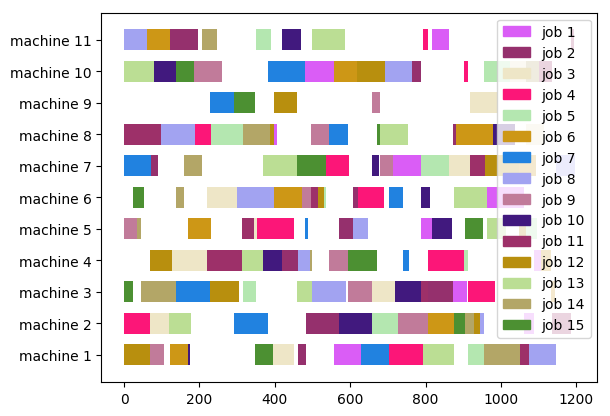
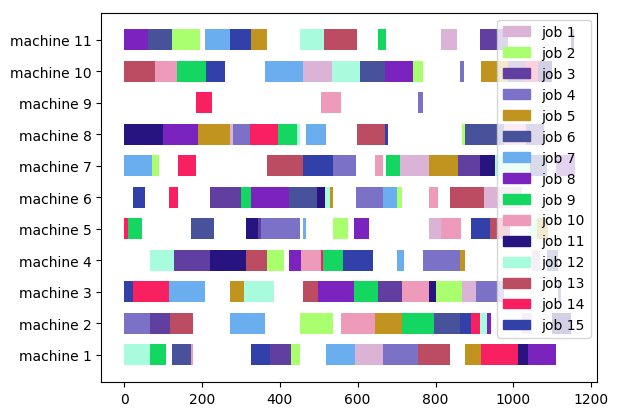
Changed population evolution logic in genetic scheduler. Now we build a population based on the best candidate at each iteration

diff --git a/app/main.py b/app/main.py
@@ -13,8 +13,8 @@ import re
 import timeit
 
 # Parser
-# with open(os.path.join(os.getcwd(), "data/Barnes/Text/setb4c9.fjs"), "r") as data:
-with open(os.path.join(os.getcwd(), "data/test.fjs"), "r") as data:
+with open(os.path.join(os.getcwd(), "data/Barnes/Text/setb4c9.fjs"), "r") as data:
+#with open(os.path.join(os.getcwd(), "data/test.fjs"), "r") as data:
 	total_jobs, total_machines, max_operations = re.findall('\S+', data.readline())
 	number_total_jobs, number_total_machines, number_max_operations = int(total_jobs), int(total_machines), int(
 		max_operations)

diff --git a/app/geneticscheduler.py b/app/geneticscheduler.py
@@ -234,6 +234,7 @@ class GeneticScheduler:
 					print(colored("[GENETIC]", "cyan"), "A better individual has been found. New best time = ",
 						  ind.fitness.values[0])
 					best = copy.deepcopy(ind)
+			population = [best for _ in range(total_population)]
 
 		print(colored("[GENETIC]", "cyan"), "Evolution finished")
 		if self.constraint_order_respected(best):
